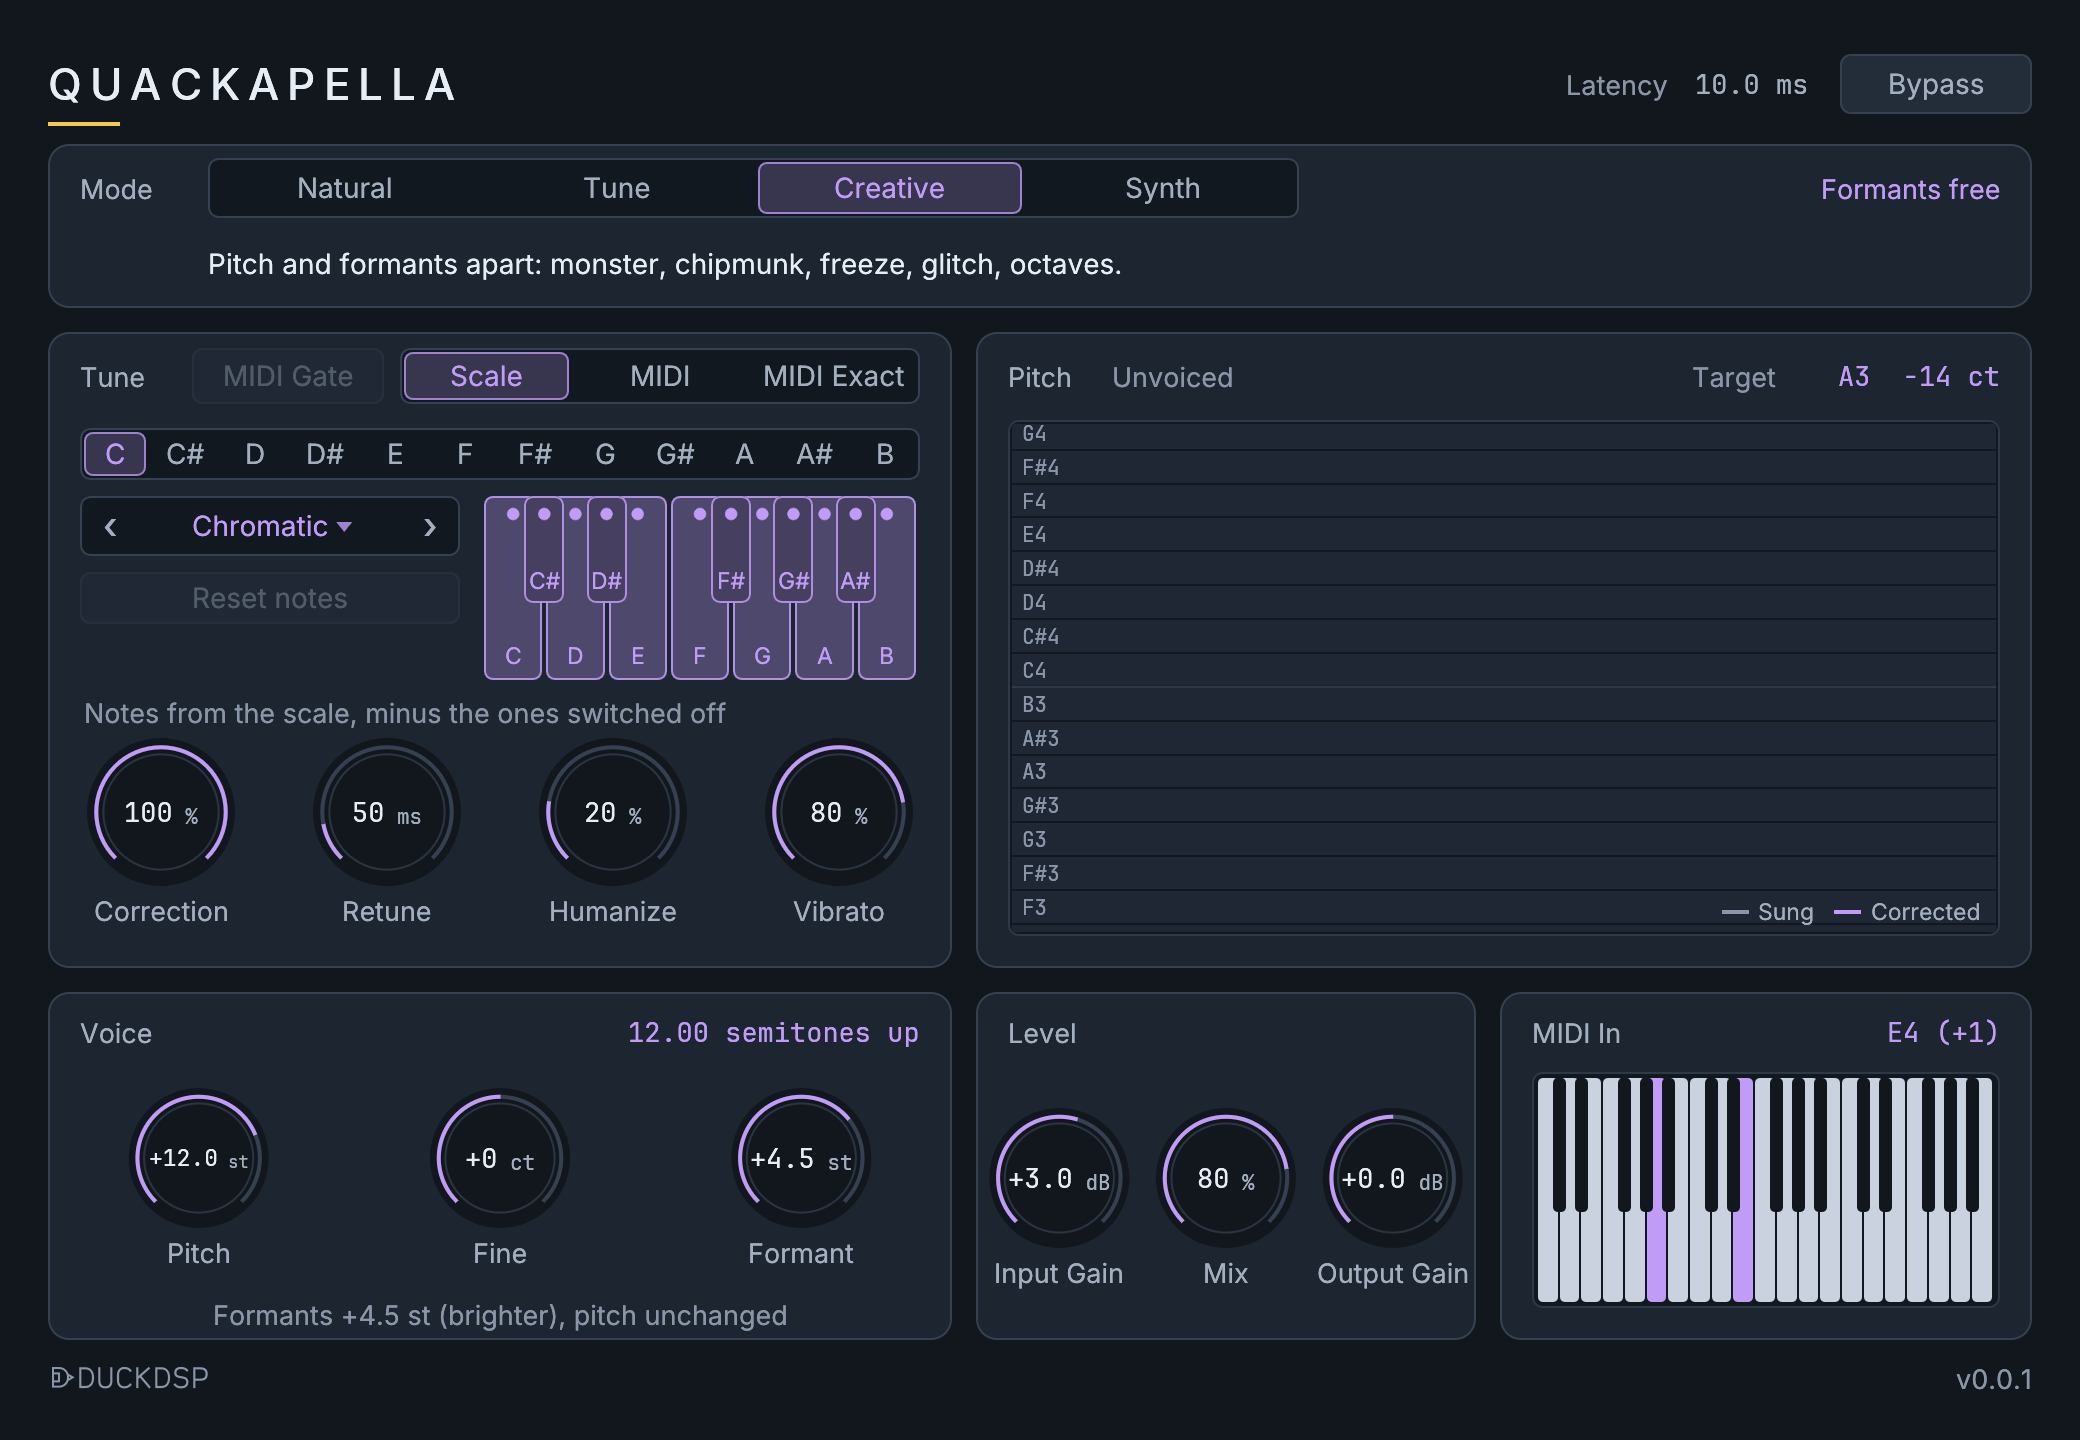
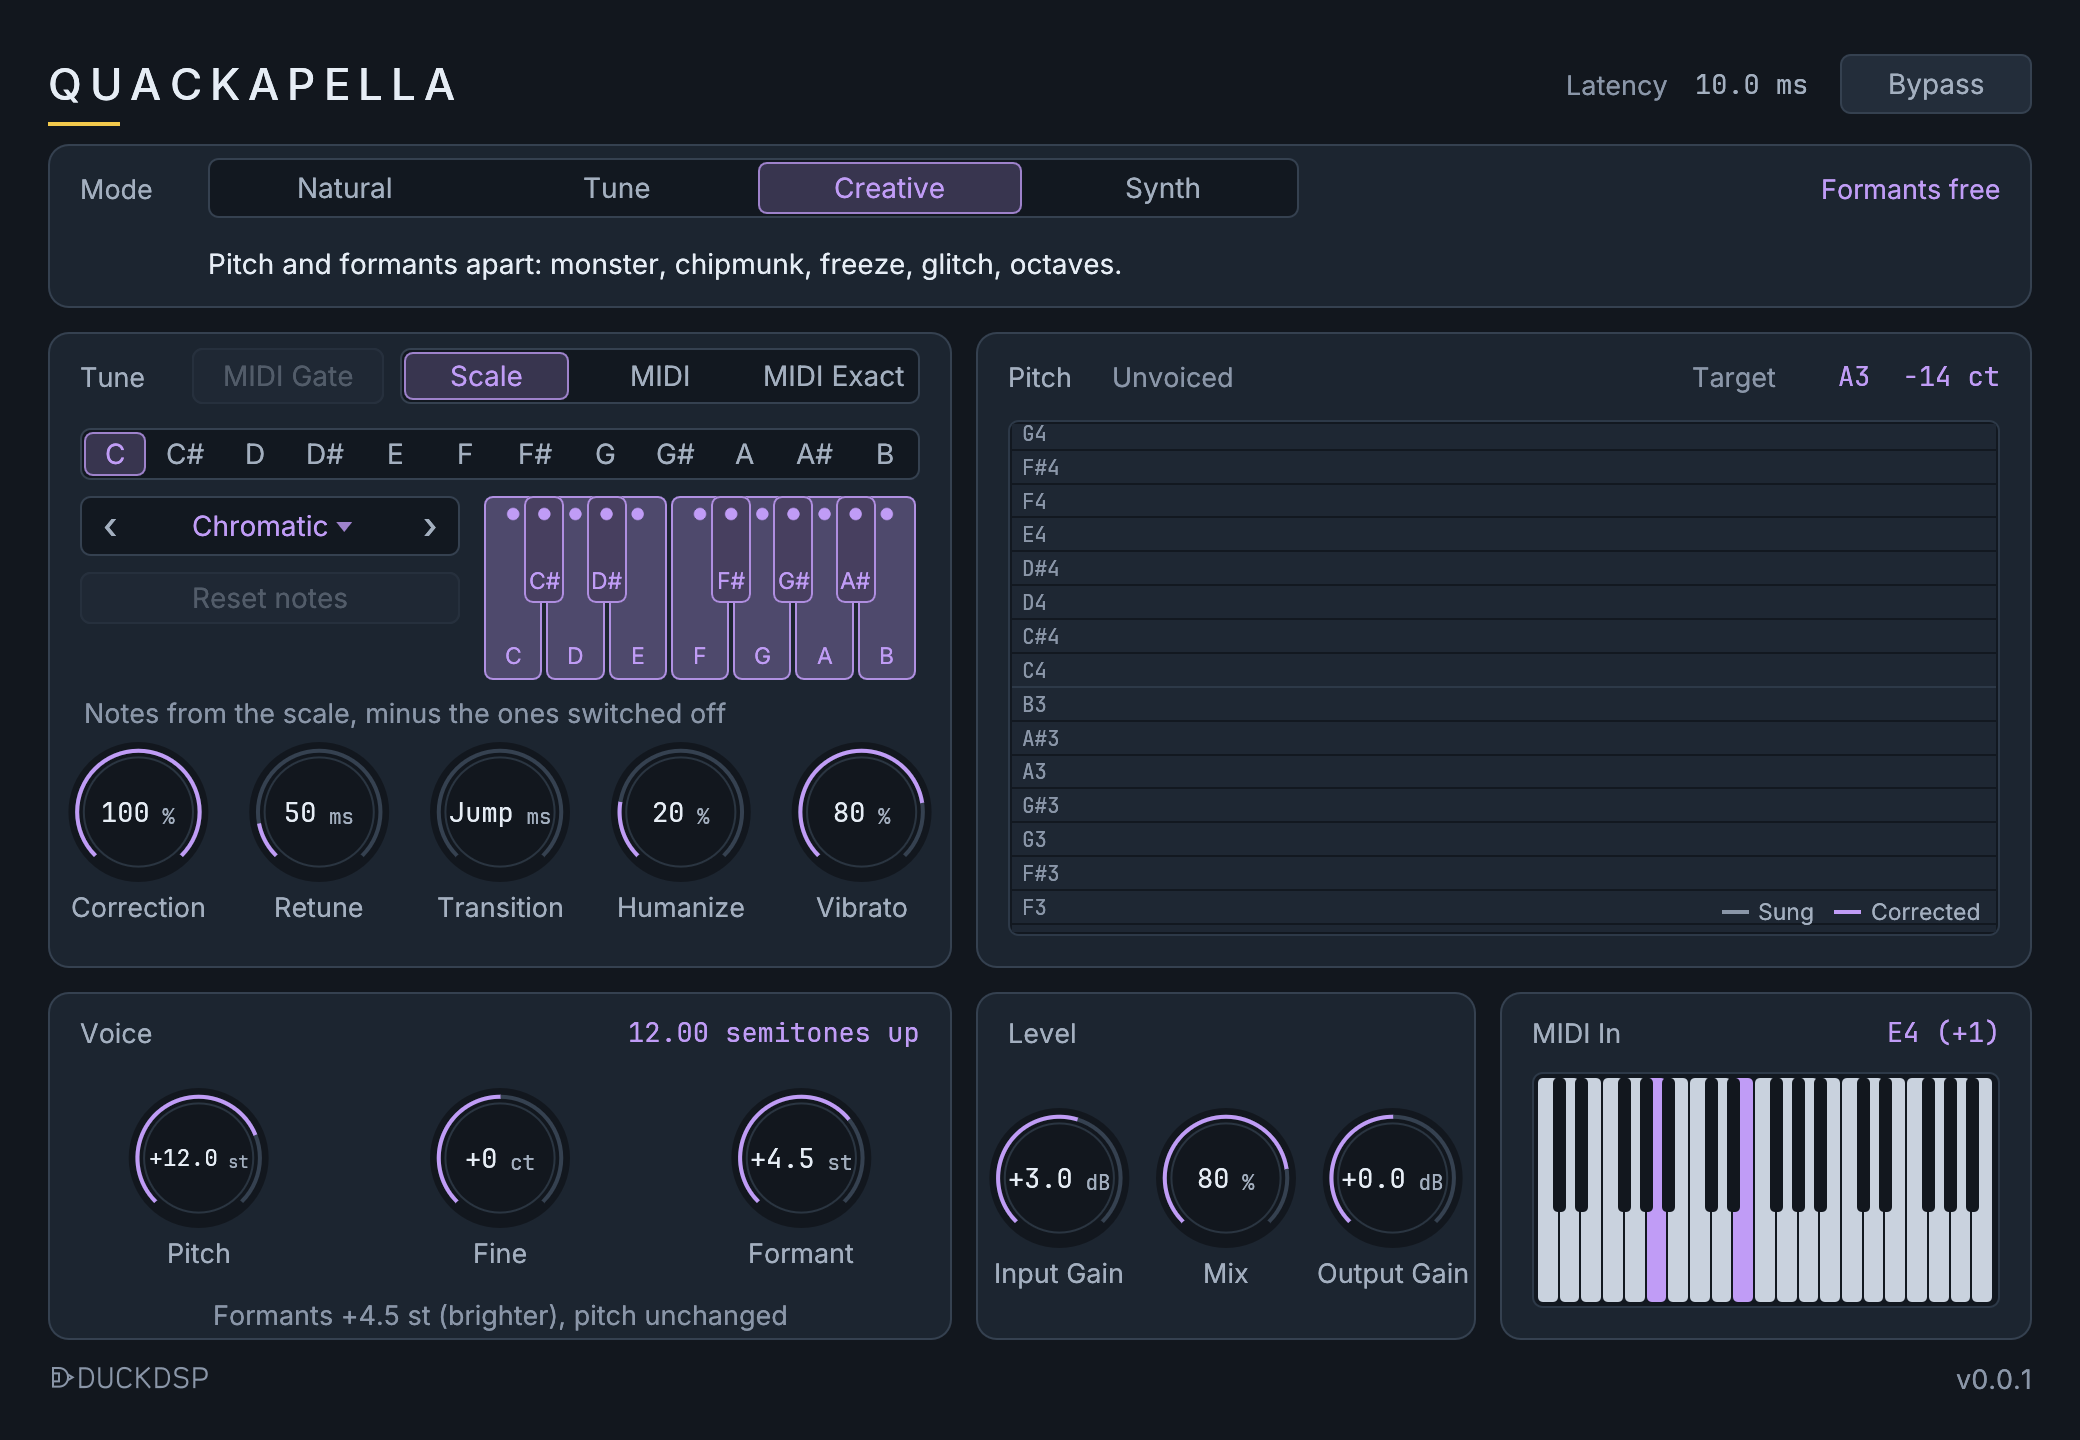
Natural and Tune become two characters
Natural: retune >= 30 ms, vibrato >= 50 %, wider note hysteresis, and
the correction eases in over each note's first 80 ms so scoops and
short notes keep their own pitch. Tune: Transition control (host id
320, 0-300 ms), the target glides between notes in that time on top
of the retune. Knobs show the Natural floors; Transition is veiled
there.

Claude-Session: https://claude.ai/code/session_01BbMFDZ1qjqUE9HvBTnmyQp

diff --git a/crates/quack-dsp/src/autotune.rs b/crates/quack-dsp/src/autotune.rs
@@ -202,8 +202,17 @@ pub fn nearest_held(note: f32, held: &NoteStack) -> Option<f32> {
 }
 
 /// How far past the midpoint between two notes the voice must go
-/// before the target changes, in semitones.
-const HYSTERESIS_ST: f64 = 0.2;
+/// before the target changes, in semitones: wide in the Natural style,
+/// so a note held a little low stays on its note; tighter in Tune, so
+/// runs land on every note.
+const HYSTERESIS_NATURAL_ST: f64 = 0.35;
+const HYSTERESIS_TUNE_ST: f64 = 0.2;
+/// Natural style: the correction eases in over the first part of each
+/// note, so scoops into the note and very short notes keep their own
+/// pitch (they are heard as expression, not as errors).
+const NATURAL_EASE_S: f64 = 0.08;
+/// Natural style: share of the vibrato always kept.
+pub const NATURAL_MIN_VIBRATO: f64 = 0.5;
 /// Smoothing of the sung pitch used to choose the note.
 const CHOICE_S: f64 = 0.012;
 /// Cutoff of the vibrato centre (vibrato is 4 to 8 Hz).
@@ -251,6 +260,11 @@ pub struct TuneSettings {
     pub mask: u16,
     /// Exact target note (MIDI Exact with a note held).
     pub exact: Option<f64>,
+    /// Natural style (see the consts above); otherwise Tune.
+    pub natural: bool,
+    /// Tune style: time the target takes to move from one note to the
+    /// next, on top of the retune (0 = a jump).
+    pub transition_s: f64,
 }
 
 impl Default for TuneSettings {
@@ -262,6 +276,8 @@ impl Default for TuneSettings {
             vibrato: 1.0,
             mask: 0xFFF,
             exact: None,
+            natural: false,
+            transition_s: 0.0,
         }
     }
 }
@@ -290,6 +306,11 @@ pub struct Retuner {
     centre: [f64; 2],
     lp: f64,
     held_s: f64,
+    /// Target in effect (gliding during a transition), where the glide
+    /// started, and how far into it we are.
+    glided: f64,
+    from: f64,
+    trans_s: f64,
     /// Vibrato detector: side of the last swing (+1, -1, 0), time since
     /// it, swings in a row at a vibrato's pace, gate (0 to 1).
     swing: f64,
@@ -382,6 +403,8 @@ impl Retuner {
             // A MIDI Exact note starts on the played note; a sung one
             // starts as sung and glides in at the retune speed.
             self.lp = if s.exact.is_some() { dev } else { 0.0 };
+            self.glided = self.target;
+            self.trans_s = f64::INFINITY;
         } else {
             self.choice += coef(dt, CHOICE_S) * (robust - self.choice);
             let cand = self.choose(self.choice);
@@ -390,20 +413,37 @@ impl Retuner {
             } else {
                 (cand - self.target).abs() > 1e-6
                     && (self.choice - self.target).abs() - (self.choice - cand).abs()
-                        > 2.0 * HYSTERESIS_ST
+                        > 2.0
+                            * if s.natural {
+                                HYSTERESIS_NATURAL_ST
+                            } else {
+                                HYSTERESIS_TUNE_ST
+                            }
             };
             if switch {
-                let jump = cand - self.target;
+                self.from = self.glided;
+                self.trans_s = 0.0;
                 self.target = cand;
-                // The vibrato centre follows the note; the correction
-                // does not, so it glides at the retune speed.
-                self.centre[0] -= jump;
-                self.centre[1] -= jump;
                 self.held_s = 0.0;
             }
         }
         self.held_s += dt;
-        let dev = robust - self.target;
+        // The target in effect: in Tune it moves to a new note over the
+        // transition time; in Natural it jumps and the retune glides.
+        self.trans_s += dt;
+        let glided = if s.natural || s.transition_s <= 0.0 || self.trans_s >= s.transition_s {
+            self.target
+        } else {
+            let x = self.trans_s / s.transition_s;
+            self.from + (self.target - self.from) * x * x * (3.0 - 2.0 * x)
+        };
+        // The vibrato centre follows the target; the correction does
+        // not, so it glides at the retune speed.
+        let moved = glided - self.glided;
+        self.centre[0] -= moved;
+        self.centre[1] -= moved;
+        self.glided = glided;
+        let dev = robust - glided;
         // Two one-pole stages: a gentle, critically damped centre.
         let a = coef(dt, 1.0 / (std::f64::consts::TAU * CENTRE_HZ));
         self.centre[0] += a * (dev - self.centre[0]);
@@ -434,10 +474,16 @@ impl Retuner {
         // Hard tune works on the raw grain, so the grains land exactly
         // one target period apart (no jitter left); otherwise the grain's
         // own jitter is the voice's and passes through.
-        let corr = if s.retune_s + human <= 0.0 && s.vibrato <= 0.0 {
-            s.amount * (self.target - sung)
+        let amount = if s.natural && s.exact.is_none() {
+            let x = (self.age_s / NATURAL_EASE_S).min(1.0);
+            s.amount * x * x * (3.0 - 2.0 * x)
         } else {
-            -s.amount * self.lp
+            s.amount
+        };
+        let corr = if s.retune_s + human <= 0.0 && s.vibrato <= 0.0 {
+            amount * (glided - sung)
+        } else {
+            -amount * self.lp
         };
         #[allow(clippy::cast_possible_truncation)]
         let reading = TuneReading {
@@ -627,5 +673,40 @@ mod tests {
         r.settings.mask = 0;
         let out = run(&mut r, &[57.3; 10]);
         assert!(out.iter().all(|o| (o - 64.3).abs() < 1e-9));
+    }
+
+    #[test]
+    fn transition_glides_between_notes() {
+        let mut r = retuner(TuneSettings {
+            amount: 1.0,
+            retune_s: 0.0,
+            vibrato: 0.0,
+            transition_s: 0.1,
+            ..TuneSettings::default()
+        });
+        run(&mut r, &[60.0; 60]);
+        // Jump to D: the output takes ~100 ms to get there, not a step.
+        let out = run(&mut r, &[62.0; 60]);
+        let mid = out.iter().position(|o| *o > 61.0).unwrap();
+        #[allow(clippy::cast_precision_loss)]
+        let t = mid as f64 * period_of(62.0) / SR;
+        assert!((0.03..0.09).contains(&t), "{t}");
+        assert!((out[59] - 62.0).abs() < 1e-6);
+    }
+
+    #[test]
+    fn natural_eases_in_and_keeps_scoops() {
+        let s = TuneSettings {
+            amount: 1.0,
+            retune_s: 0.03,
+            vibrato: 0.5,
+            natural: true,
+            ..TuneSettings::default()
+        };
+        let mut r = retuner(s);
+        // A note starting 40 ct flat: its first 40 ms stay near as sung.
+        let out = run(&mut r, &[59.6; 120]);
+        assert!((out[4] - 59.6).abs() < 0.1, "{}", out[4]);
+        assert!((out[119] - 60.0).abs() < 0.03, "{}", out[119]);
     }
 }

diff --git a/crates/quack-ui/src/lib.rs b/crates/quack-ui/src/lib.rs
@@ -132,10 +132,10 @@ pub fn mode_accent(mode: VoiceMode) -> Color32 {
 fn mode_blurb(mode: VoiceMode) -> &'static str {
     match mode {
         VoiceMode::Natural => {
-            "Transparent correction and transposition, formants preserved, even for large intervals."
+            "Unheard correction: vibrato and scoops kept, short notes left alone, formants preserved."
         }
         VoiceMode::Tune => {
-            "Pitch correction to a scale or to MIDI notes, from gentle to hard tune."
+            "The audible effect, from pop tune to robot: fast retune, set note transitions."
         }
         VoiceMode::Creative => {
             "Pitch and formants apart: monster, chipmunk, freeze, glitch, octaves."
@@ -576,24 +576,46 @@ fn tune_panel(
         }
     };
     let ky = r.bottom() - 78.0;
-    let kw = r.width() / 4.0;
-    let knobs: [(ParamId, &dyn Fn(f64) -> String); 4] = [
+    let kw = r.width() / 5.0;
+    let trans = |v: f64| {
+        if v < 0.5 {
+            "Jump".to_owned()
+        } else {
+            format!("{v:.0}")
+        }
+    };
+    let knobs: [(ParamId, &dyn Fn(f64) -> String); 5] = [
         (ParamId::Correction, &pct),
         (ParamId::Retune, &ms),
+        (ParamId::Transition, &trans),
         (ParamId::Humanize, &pct),
         (ParamId::Vibrato, &pct),
     ];
-    // Natural keeps the retune at 30 ms or slower: the knob stops there.
-    let natural_floor = quack_dsp::engine::NATURAL_MIN_RETUNE_S * 1000.0;
+    // Natural has floors (the knobs stop there) and no transition: its
+    // notes glide at the retune speed.
+    let natural = mode == VoiceMode::Natural;
     for (i, (id, fmt)) in knobs.into_iter().enumerate() {
         #[allow(clippy::cast_precision_loss)]
         let cx = r.left() + kw * (i as f32 + 0.5);
-        let floor = if id == ParamId::Retune && mode == VoiceMode::Natural {
-            natural_floor
-        } else {
-            id.spec().kind.min()
+        let floor = match id {
+            ParamId::Retune if natural => quack_dsp::engine::NATURAL_MIN_RETUNE_S * 1000.0,
+            ParamId::Vibrato if natural => quack_dsp::autotune::NATURAL_MIN_VIBRATO * 100.0,
+            _ => id.spec().kind.min(),
         };
-        controls::knob_floor(ui, params, st, id, pos2(cx, ky), 74.0, floor, accent, fmt);
+        controls::knob_floor(ui, params, st, id, pos2(cx, ky), 70.0, floor, accent, fmt);
+        if natural && id == ParamId::Transition {
+            let veil = Rect::from_center_size(pos2(cx, ky + 10.0), vec2(kw, 100.0));
+            ui.painter()
+                .rect_filled(veil, 6.0, color::PANEL.gamma_multiply(0.7));
+            text(
+                ui.painter(),
+                pos2(cx, ky),
+                Align2::CENTER_CENTER,
+                "Tune only",
+                size::CAPTION - 2.0,
+                color::TEXT_FAINT,
+            );
+        }
     }
 }
 

diff --git a/crates/quack-dsp/src/engine.rs b/crates/quack-dsp/src/engine.rs
@@ -262,17 +262,22 @@ impl Engine {
         };
         let gated = v.get(ParamId::MidiGate) >= 0.5 && source != Source::Scale && held == 0;
         self.gate.set(if gated { 0.0 } else { 1.0 });
+        let natural = self.mode == VoiceMode::Natural;
         let mut retune_s = v.get(ParamId::Retune) / 1000.0;
-        if self.mode == VoiceMode::Natural {
+        let mut vibrato = v.get(ParamId::Vibrato) / 100.0;
+        if natural {
             retune_s = retune_s.max(NATURAL_MIN_RETUNE_S);
+            vibrato = vibrato.max(crate::autotune::NATURAL_MIN_VIBRATO);
         }
         self.retuner.settings = TuneSettings {
             amount: v.get(ParamId::Correction) / 100.0,
             retune_s,
             humanize: v.get(ParamId::Humanize) / 100.0,
-            vibrato: v.get(ParamId::Vibrato) / 100.0,
+            vibrato,
             mask,
             exact,
+            natural,
+            transition_s: v.get(ParamId::Transition) / 1000.0,
         };
     }
 

diff --git a/crates/quack-plugin/src/params.rs b/crates/quack-plugin/src/params.rs
@@ -245,6 +245,16 @@ pub struct QuackParams {
     #[param(id = 319, name = "MIDI Gate")]
     pub midi_gate: BoolParam,
 
+    #[param(
+        id = 320,
+        name = "Transition",
+        range = "linear(0, 300)",
+        default = 0.0,
+        unit = "ms",
+        smooth = "none"
+    )]
+    pub transition: FloatParam,
+
     /// Audio → editor: held notes, latency. Not a parameter, not saved.
     #[skip]
     pub shared: Arc<Shared>,
@@ -300,6 +310,10 @@ impl QuackParams {
         for (id, p) in quack_dsp::params::NOTE_PARAMS.into_iter().zip(notes) {
             v.set(id, f64::from(u8::from(p.value())));
         }
+        v.set(
+            ParamId::Transition,
+            FloatParamReadF64::value(&self.transition),
+        );
         v.set(
             ParamId::MidiGate,
             f64::from(u8::from(self.midi_gate.value())),

diff --git a/crates/quack-dsp/src/params.rs b/crates/quack-dsp/src/params.rs
@@ -129,9 +129,10 @@ pub enum ParamId {
     NoteAs,
     NoteB,
     MidiGate,
+    Transition,
 }
 
-pub const PARAM_COUNT: usize = 28;
+pub const PARAM_COUNT: usize = 29;
 
 /// The twelve note switches of the autotune, C first.
 pub const NOTE_PARAMS: [ParamId; 12] = [
@@ -398,6 +399,17 @@ const SPECS: [ParamSpec; PARAM_COUNT] = [
         unit: "",
         kind: ParamKind::Bool { default: false },
     },
+    ParamSpec {
+        key: "transition",
+        host_id: 320,
+        name: "Transition",
+        unit: "ms",
+        kind: ParamKind::Float {
+            min: 0.0,
+            max: 300.0,
+            default: 0.0,
+        },
+    },
 ];
 
 impl ParamId {
@@ -430,6 +442,7 @@ impl ParamId {
         Self::NoteAs,
         Self::NoteB,
         Self::MidiGate,
+        Self::Transition,
     ];
 
     #[must_use]

diff --git a/docs/architecture.md b/docs/architecture.md
@@ -151,7 +151,16 @@ fixe).
 - Choix de note avec hystérésis (0,2 demi-ton au-delà du milieu) et phase
   d'attaque de 20 ms où la note est rechoisie librement ; un saut de plus
   de 3 demi-tons ou un silence de 60 ms recommence une note.
-- Mode Natural : Retune plancher de 30 ms.
+- Deux caractères distincts :
+  - **Natural** (correction qu'on n'entend pas) : Retune ≥ 30 ms, Vibrato
+    ≥ 50 %, hystérésis large (0,35 demi-ton), correction qui s'installe
+    sur les 80 premières ms de chaque note (scoops et notes courtes
+    gardés), pas de Transition.
+  - **Tune** (l'effet) : toute la plage, hystérésis 0,2, **Transition**
+    (0-300 ms) : la cible glisse d'une note à l'autre en ce temps,
+    indépendamment du Retune ; 0 = saut net.
+- **MIDI Gate** : avec une source MIDI, la sortie est coupée tant
+  qu'aucune note n'est tenue (fondus de 8 ms, retardés de la latence).
 - Corrigé au passage dans le shifter : chaque grain était retardé d'un
   demi-échantillon en moyenne (sortie basse de 4 à 12 cents).
 
